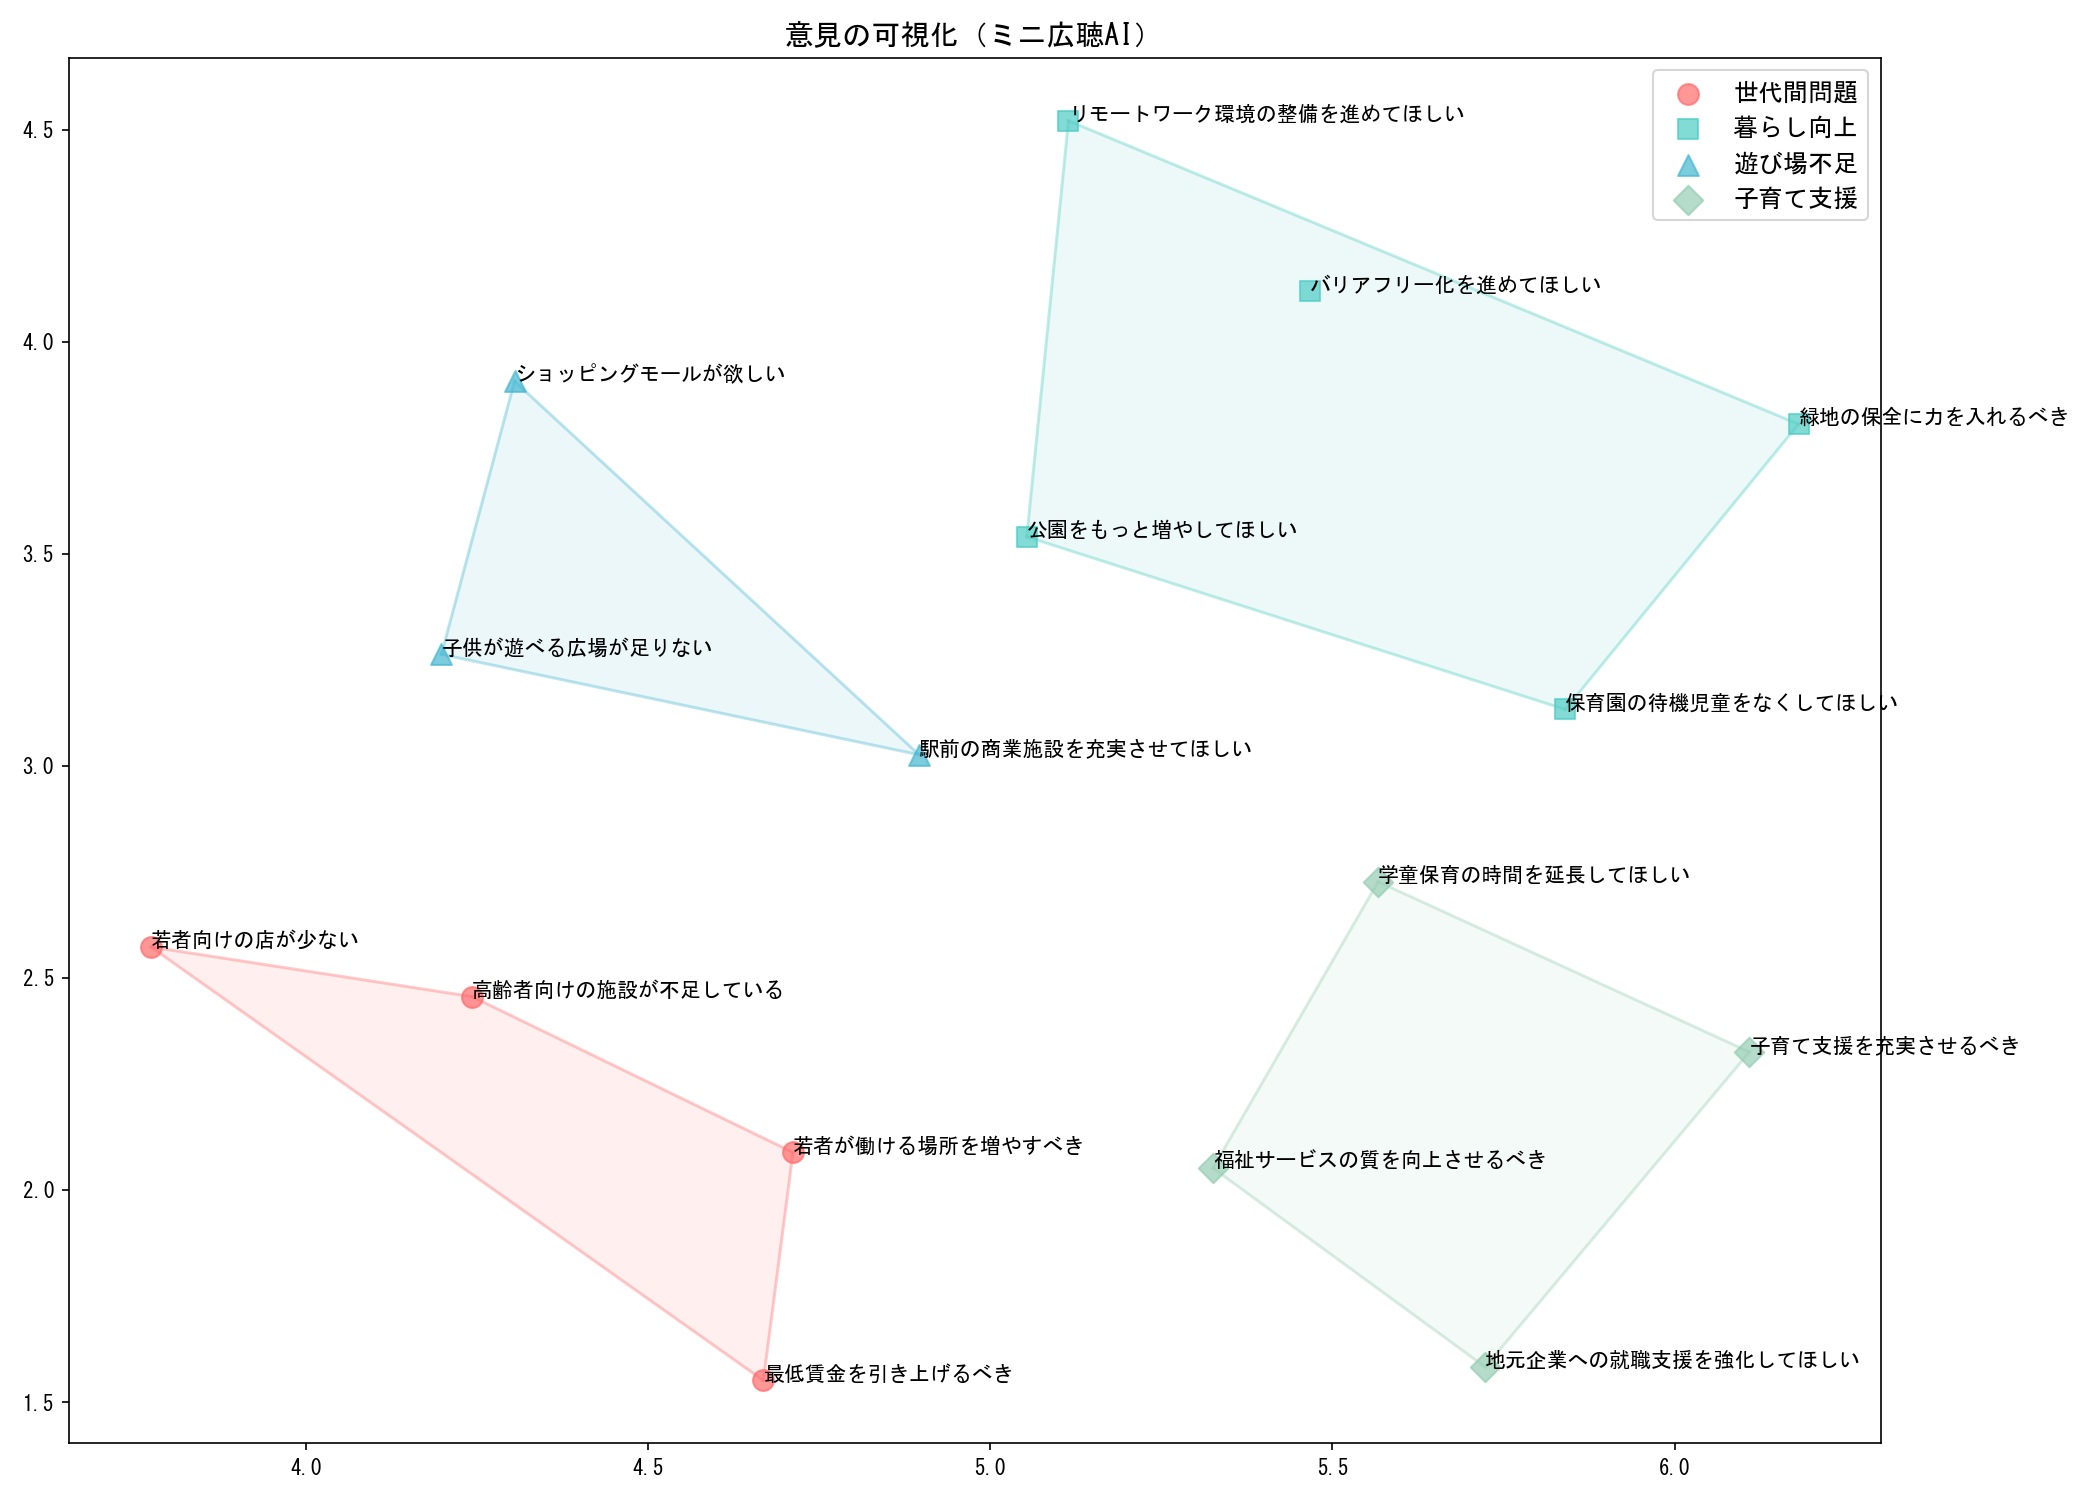
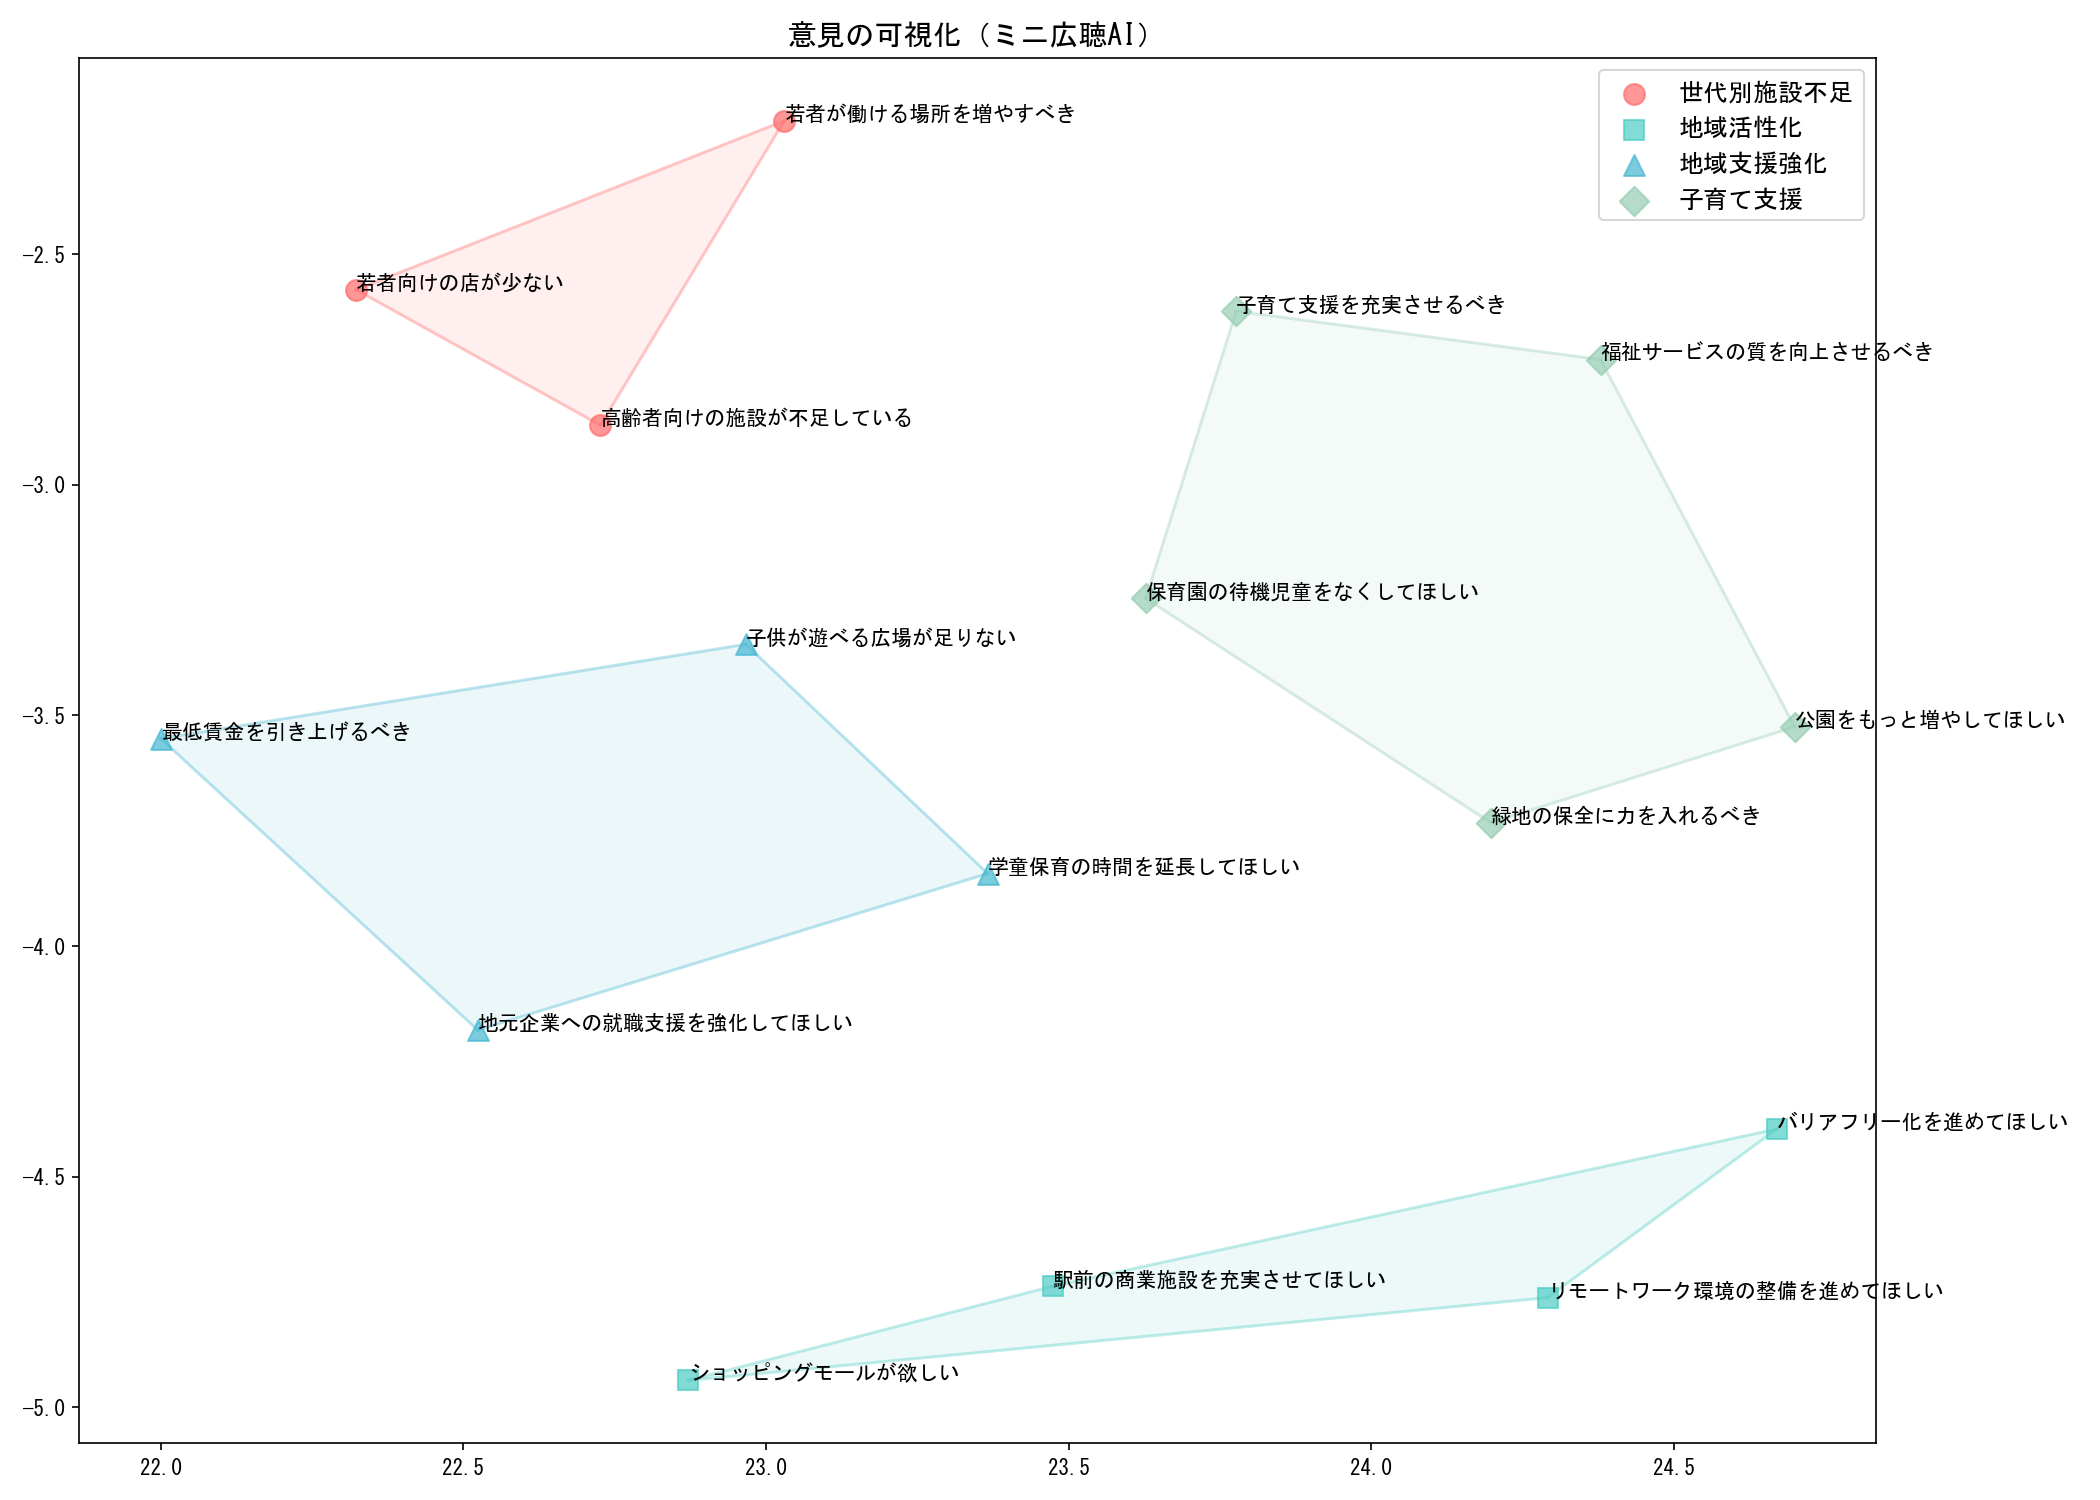
Update clustering pipeline and visualization in mini広聴AI implementation

diff --git a/code/test_mini_kouchou_ai.py b/code/test_mini_kouchou_ai.py
@@ -43,7 +43,7 @@ response = client.embeddings.create(
 embeddings = np.array([item.embedding for item in response.data])
 
 # 3. 次元圧縮 & クラスタリング
-coords_2d = umap.UMAP(n_components=2, random_state=42).fit_transform(embeddings)
+coords_2d = umap.UMAP(n_components=2, metric='cosine', random_state=42).fit_transform(embeddings)
 df["cluster"] = KMeans(n_clusters=4, random_state=42).fit_predict(coords_2d)
 df["x"], df["y"] = coords_2d[:, 0], coords_2d[:, 1]
 
@@ -92,5 +92,6 @@ for cluster_id in range(4):
 ax.legend(fontsize=12)
 ax.set_title("意見の可視化（ミニ広聴AI）", fontsize=14)
 plt.tight_layout()
-plt.savefig("mini_kouchou_ai.png", dpi=150)
+plt.savefig("images/14_mini_kouchou_ai.png", dpi=150)
+print("図を保存しました: images/14_mini_kouchou_ai.png")
 plt.show()
